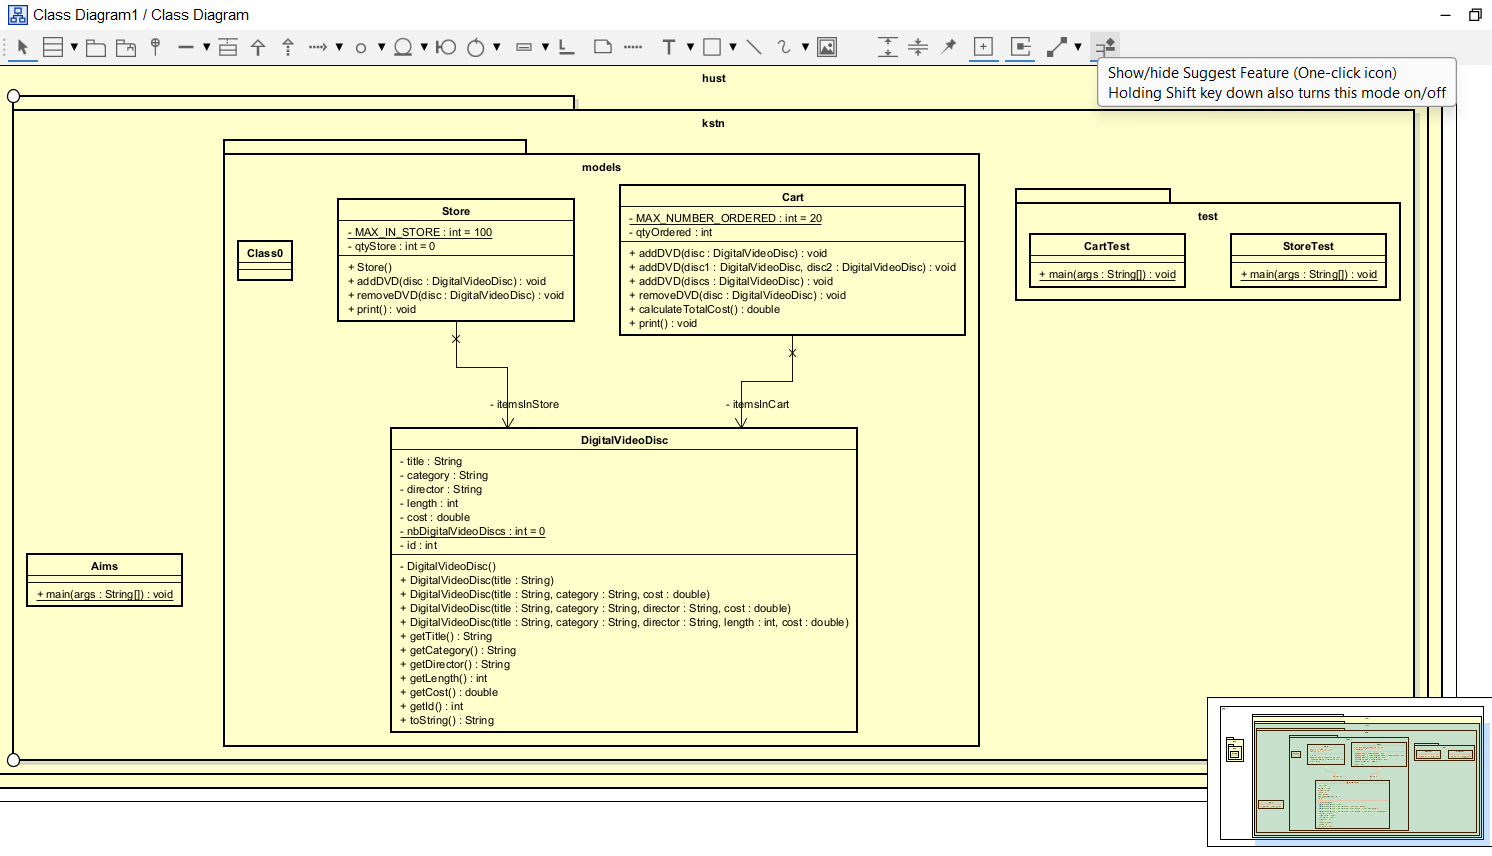
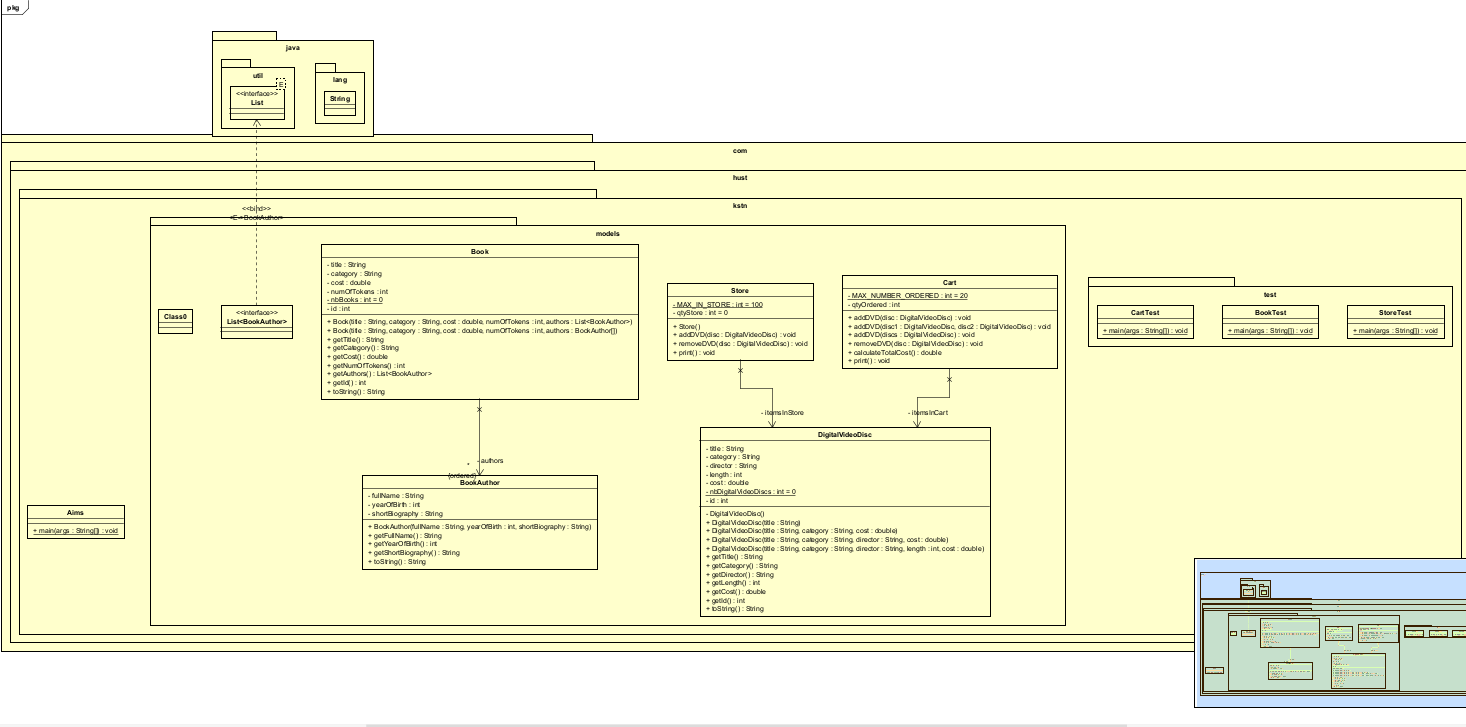
Book and BookTest

diff --git a/AimsProject/src/com/hust/kstn/models/Book.java b/AimsProject/src/com/hust/kstn/models/Book.java
@@ -1,0 +1,67 @@
+package com.hust.kstn.models;
+
+import java.util.ArrayList;
+import java.util.List;
+
+public class Book {
+
+    private final String title;
+    private final String category;
+    private final double cost;
+    private final int numOfTokens;
+    private final List<BookAuthor> authors;
+    static private int nbBooks = 0;
+    private final int id;
+
+    public Book(String title, String category, double cost, int numOfTokens, List<BookAuthor> authors) {
+
+        this.title = title;
+        this.category = category;
+        this.cost = cost;
+        this.numOfTokens = numOfTokens;
+        this.authors = new ArrayList<>(authors);
+        this.id = ++nbBooks;
+    }
+    public Book(String title, String category, double cost, int numOfTokens, BookAuthor[] authors) {
+        this.title = title;
+        this.category = category;
+        this.cost = cost;
+        this.numOfTokens = numOfTokens;
+        this.authors = new ArrayList<>(List.of(authors));
+        this.id = ++nbBooks;
+    }
+
+
+    public String getTitle() {
+        return title;
+    }
+
+    public String getCategory() {
+        return category;
+    }
+
+    public double getCost() {
+        return cost;
+    }
+
+    public int getNumOfTokens() {
+        return numOfTokens;
+    }
+
+    public List<BookAuthor> getAuthors() {
+        return new ArrayList<>(authors);
+    }
+    public int getId() {
+        return id;
+    }
+
+    @Override
+    public String toString() {
+        return "Book[" + this.id + "]["
+                + this.title + "]["
+                + this.cost + "]["
+                + this.category + "]["
+                + this.numOfTokens + "]"
+                + "\nAuthors: " + this.authors;
+    }
+}

diff --git a/AimsProject/src/com/hust/kstn/test/BookTest.java b/AimsProject/src/com/hust/kstn/test/BookTest.java
@@ -1,0 +1,22 @@
+package com.hust.kstn.test;
+
+import com.hust.kstn.models.BookAuthor;
+import com.hust.kstn.models.Book;
+
+public class BookTest {
+    public static void main(String[] args) {
+        BookAuthor author1 = new BookAuthor("Nguyen Nhat Anh", 1960, "Tac gia sach bup sen xanh");
+        BookAuthor author2 = new BookAuthor("Nguyen Cong Son", 1970, "Tac gia sach nghin le mot dem");
+        BookAuthor author3 = new BookAuthor("Nguyen Dang Khoa", 1980, "Tac gia bach tuyet va 7 chu lun");
+
+        BookAuthor[] authors1 = {author1, author2};
+        Book book1 = new Book("Giai tich 1", "giao duc", 149000.0, 10000, authors1);
+
+        System.out.println(book1);
+
+        BookAuthor[] authors2 = {author3};
+        Book book2 = new Book("Thanh Giong", "Giao duc", 49000, 1000, authors2);
+
+        System.out.println(book2);
+    }
+}

diff --git a/AimsProject/src/com/hust/kstn/models/BookAuthor.java b/AimsProject/src/com/hust/kstn/models/BookAuthor.java
@@ -1,0 +1,32 @@
+package com.hust.kstn.models;
+
+public class BookAuthor {
+    private String fullName;
+    private int yearOfBirth;
+    private String shortBiography;
+
+    public BookAuthor(String fullName, int yearOfBirth, String shortBiography) {
+        this.fullName = fullName;
+        this.yearOfBirth = yearOfBirth;
+        this.shortBiography = shortBiography;
+    }
+
+    public String getFullName() {
+        return fullName;
+    }
+
+    public int getYearOfBirth() {
+        return yearOfBirth;
+    }
+
+    public String getShortBiography() {
+        return shortBiography;
+    }
+
+    @Override
+    public String toString() {
+        return this.fullName + " ("
+                + this.yearOfBirth + ", "
+                + this.shortBiography + ")\n";
+    }
+}
